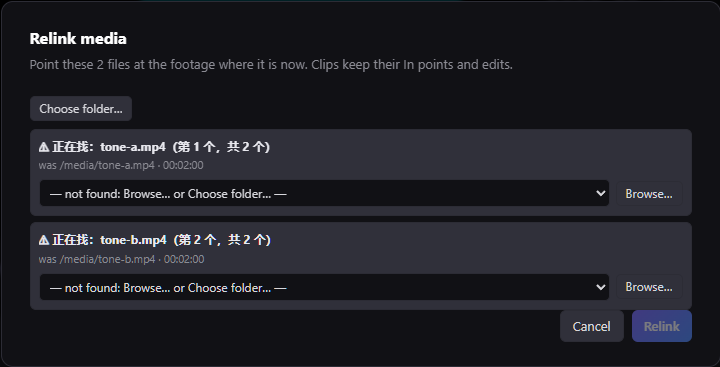
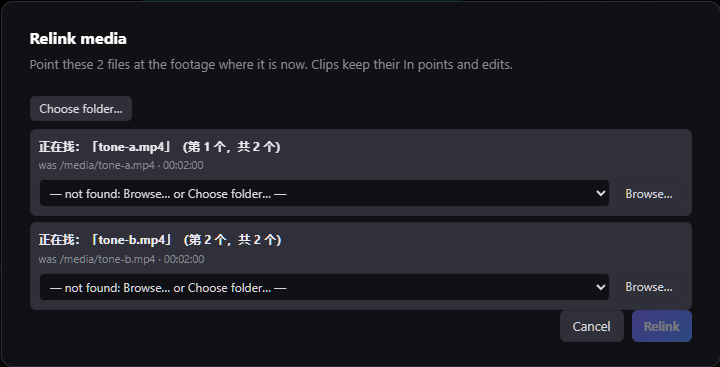
Missing files: JJ's exact dialog label; the hover names the file, never its path; one file's export reminder
Rea's check of #137: the card's hover had a 「⚠ 」 JJ's wording doesn't; it is
gone. Deja: the English hover showed the file's whole path, which can hold the
streamer's user name in a screenshot; both languages now name the file only.
The export reminder no longer reads 「有 1 个素材……这几段」: one file has its own
sentence (a draft in both languages, 草稿，待 JJ 定稿).

Deja: the Relink dialog's label is JJ's words exactly, with no 「⚠」 in front and
the count even when one file is left: 「正在找：「tone-c.mp4」（第 1 个，共 1 个）」 /
"Looking for “tone-c.mp4” (1 of 1)". The label without a count is gone.
Screenshots in docs/validation retaken.

Assisted-by: Cindy (https://cindy.app)

Changed region(s): [[0.0306, 0.6294, 0.3972, 0.6894], [0.0306, 0.3597, 0.3972, 0.4196]]

diff --git a/test/offline-media-zh.test.js b/test/offline-media-zh.test.js
@@ -18,7 +18,8 @@ test('JJ\'s Chinese, word for word', () => {
   a.equal(t('zh-CN', 'off-find-each'), '一个个找回来…');
   a.equal(t('zh-CN', 'off-badge'), '找不到');
   a.equal(t('zh-CN', 'off-badge-title'), '这个文件找不到了。右键选〔重新链接…〕，把它找回来。');
-  a.equal(tp('zh-CN', 'off-export', { n: 2 }, { n: 2 }), '有 2 个素材找不到了，导出时这几段会显示「找不到」的画面、没有声音。先把它们找回来再导出吧。');
+  a.equal(t('zh-CN', 'off-item-title', { file: 'tone-b.mp4' }), '这个文件找不到了。右键选〔重新链接…〕，把它找回来。', 'no ⚠ in front (Rea)');
+  a.equal(t('zh-CN', 'off-export', { n: 2 }), '有 2 个素材找不到了，导出时这几段会显示「找不到」的画面、没有声音。先把它们找回来再导出吧。');
   a.equal(t('zh-CN', 'off-find-first'), '先找回来…');
   a.equal(t('zh-CN', 'off-export-anyway'), '照样导出');
   a.equal(t('zh-CN', 'off-other-copy'), '用另一处的同一段录像…');
@@ -26,7 +27,7 @@ test('JJ\'s Chinese, word for word', () => {
   a.equal(t('zh-CN', 'off-replace-title'), '换成另一段录像，用到它的片段都会跟着换。');
   a.equal(t('zh-CN', 'off-none'), '素材都在，没有找不到的。');
   a.equal(t('zh-CN', 'off-finding-k', { file: 'tone-b.mp4', k: 2, n: 5 }), '正在找：「tone-b.mp4」（第 2 个，共 5 个）');
-  a.equal(t('zh-CN', 'off-finding', { file: 'tone-b.mp4' }), '正在找：「tone-b.mp4」');
+  a.equal(t('zh-CN', 'off-finding-k', { file: 'tone-c.mp4', k: 1, n: 1 }), '正在找：「tone-c.mp4」（第 1 个，共 1 个）', 'one left: the count too');
   a.equal(t('zh-CN', 'off-auto-found', { m: 2 }), '已经自动找回 2 个');
   a.equal(t('zh-CN', 'off-slate'), '找不到');
   a.equal(V.t('zh-CN', 'term.relink'), '重新链接…', '〔重新链接…〕 stays');
@@ -36,16 +37,20 @@ test('JJ\'s Chinese, word for word', () => {
 test('JJ\'s English, word for word (“ ” quotes, JJ\'s rule); the drafts as they are until JJ settles them', () => {
   a.equal(t('en', 'off-bar-one', { file: 'tone-b.mp4' }), 'Can\'t find “tone-b.mp4”. It may have been moved or deleted. Your edits are still there; find the file and you can carry on.');
   a.equal(t('en', 'off-find-it'), 'Find it…');
-  a.equal(tp('en', 'off-export', { n: 2 }, { n: 2 }), '2 media files can\'t be found. In the export those parts will show a “missing” picture with no sound. Find them first, then export.');
+  a.equal(t('en', 'off-export', { n: 2 }), '2 media files can\'t be found. In the export those parts will show a “missing” picture with no sound. Find them first, then export.');
   a.equal(t('en', 'off-other-copy'), 'Use the same recording from elsewhere…');
   a.equal(t('en', 'off-other-copy-title'), 'The same recording saved somewhere else (a backup on another drive, for example). Point to that one; your cuts stay the same.');
   a.equal(t('en', 'off-finding-k', { file: 'tone-b.mp4', k: 2, n: 5 }), 'Looking for “tone-b.mp4” (2 of 5)');
-  a.equal(t('en', 'off-finding', { file: 'tone-b.mp4' }), 'Looking for “tone-b.mp4”');
+  a.equal(t('en', 'off-finding-k', { file: 'tone-c.mp4', k: 1, n: 1 }), 'Looking for “tone-c.mp4” (1 of 1)');
   a.equal(t('en', 'off-replace-title'), 'Swap in a different recording; every clip that uses it changes too.');
   // drafts (草稿，待 JJ 定稿)
   a.equal(t('en', 'off-bar-many', { n: 3 }), '3 media files can\'t be found. They may have been moved or deleted. Your edits are still there; find the files and you can carry on.');
   a.equal(t('en', 'off-find-each'), 'Find them one by one…');
-  a.equal(tp('en', 'off-export', { n: 1 }, { n: 1 }), '1 media file can\'t be found. In the export that part will show a “missing” picture with no sound. Find it first, then export.');
+  // n = 1 (drafts, 草稿，待 JJ 定稿): never 「有 1 个素材……这几段」
+  a.equal(t('en', 'off-export-one'), '1 media file can\'t be found. In the export that part will show a “missing” picture with no sound. Find it first, then export.');
+  a.equal(t('zh-CN', 'off-export-one'), '有 1 个素材找不到了，导出时这一段会显示「找不到」的画面、没有声音。先把它找回来再导出吧。');
+  a.doesNotMatch(t('zh-CN', 'off-export-one'), /这几段|它们/);
+  a.equal(t('en', 'off-item-title', { file: 'tone-b.mp4' }), '⚠ Offline: tone-b.mp4 is missing — right-click → Relink…');
   a.equal(t('en', 'off-find-first'), 'Find them first…');
   a.equal(t('en', 'off-export-anyway'), 'Export anyway');
   a.equal(t('en', 'off-none'), 'All your media is here; nothing is missing.');
@@ -94,13 +99,14 @@ test('the corner toast is gone; the dialog marks each file it is finding, in ord
   a.doesNotMatch(check, /toast\(/, 'the strip says it now');
   const dlg = body('async function openRelinkDialog(', '\n}\n');
   a.match(dlg, /toast\(uiText\("own\.off-none"\)\)/);
-  a.match(dlg, /own\.off-finding-k", \{ file: m\.name, k, n: missing\.length \}/);
+  a.ok(dlg.includes('row.querySelector("b").textContent = k ? uiText("own.off-finding-k", { file: m.name, k, n: missing.length }) : m.name;'), 'no ⚠ in front, and the count even for one file');
+  a.doesNotMatch(dlg, /own\.off-finding"/);
   a.doesNotMatch(dlg, /Nothing is offline/);
 });
 
 test('the export reminder has its two buttons: 〔先找回来…〕 opens the dialog, 〔照样导出〕 starts the export', () => {
   const s = body('const offUsed = project.media.filter(', 'fillExportRangeSelect();');
-  a.match(s, /MontClipView\.tp\(mcView\.get\(\)\.language, "own\.off-export", \{ n: offUsed\.length \}, \{ n: offUsed\.length \}\)/);
+  a.ok(s.includes('offUsed.length === 1 ? uiText("own.off-export-one") : uiText("own.off-export", { n: offUsed.length })'));
   a.doesNotMatch(s, /will export as|Relink…/);
   const find = /\[data-off-find\]"\)\??\.addEventListener\("click", \(\) => \{ ([^}]*) \}\)/.exec(s), go = /\[data-off-go\]"\)\??\.addEventListener\("click", \(\) => \{?([^}\n]*)\}?\)/.exec(s);
   a.ok(find && go, 'both buttons are wired');
@@ -133,6 +139,18 @@ test('a missing file found under the same name is linked without asking; the dia
   a.ok(dlg.includes('const close = () => { overlay.remove(); scheduleOfflineCheck(0); sayAuto(); };'));
   a.ok(body('async function setMediaSource(', '\n}\n').includes('if (!quiet) toast(msg);'));
   // the real round (3 missing, 2 found by name: one question, then 「已经自动找回 2 个」) is in desktop/offline-media-smoke.cjs
+});
+
+test('the card\'s hover names the file, never its path (no folder separators, no user folder), in both languages', () => {
+  const item = body('const makeMediaItem = (m, depth) => {', '\n  const renderLevel = ');
+  a.ok(item.includes('uiText("own.off-item-title", { file: m.name })'));
+  a.doesNotMatch(item, /off-item-title", \{ path/);
+  for (const l of ['en', 'zh-CN']) {
+    a.doesNotMatch(V.text[l]['own.off-item-title'], /\{path\}/, l);
+    const s = t(l, 'off-item-title', { file: 'tone-b.mp4' });
+    a.doesNotMatch(s, /[\\/]|Users|home/i, l);
+  }
+  // the real card's whole hover is checked in desktop/offline-media-smoke.cjs
 });
 
 test('the export mix leaves a missing file out, even one whose sound was decoded before it went missing', () => {

diff --git a/ui-preferences.js b/ui-preferences.js
@@ -99,17 +99,18 @@
     "off-find-each": ["Find them one by one…", "一个个找回来…"],   // en: draft
     "off-badge": ["OFFLINE", "找不到"],
     "off-badge-title": ["The file is missing — right-click → Relink…", "这个文件找不到了。右键选〔重新链接…〕，把它找回来。"],
-    "off-item-title": ["⚠ Offline: {path} is missing — right-click → Relink…", "⚠ 这个文件找不到了。右键选〔重新链接…〕，把它找回来。"],
+    // the file's name only, never its path: streamers send screenshots, and a full path holds their user name (Deja, 2026-11-05)
+    "off-item-title": ["⚠ Offline: {file} is missing — right-click → Relink…", "这个文件找不到了。右键选〔重新链接…〕，把它找回来。"],
     "off-filter": ["⚠ Offline ({n})", "⚠ 找不到（{n}）"],
     "off-clip": ["⚠ Offline · ", "⚠ 找不到 · "],
     "off-export": ["{n} media files can't be found. In the export those parts will show a “missing” picture with no sound. Find them first, then export.", "有 {n} 个素材找不到了，导出时这几段会显示「找不到」的画面、没有声音。先把它们找回来再导出吧。"],
+    "off-export-one": ["1 media file can't be found. In the export that part will show a “missing” picture with no sound. Find it first, then export.", "有 1 个素材找不到了，导出时这一段会显示「找不到」的画面、没有声音。先把它找回来再导出吧。"],   // n = 1: draft (草稿，待 JJ 定稿), both languages
     "off-find-first": ["Find them first…", "先找回来…"],   // en: draft
     "off-export-anyway": ["Export anyway", "照样导出"],   // en: draft
     "off-other-copy": ["Use the same recording from elsewhere…", "用另一处的同一段录像…"],
     "off-other-copy-title": ["The same recording saved somewhere else (a backup on another drive, for example). Point to that one; your cuts stay the same.", "同一段录像存在别的地方（比如移动硬盘上的备份），指到那一份，剪辑点都不变。"],
     "off-replace-title": ["Swap in a different recording; every clip that uses it changes too.", "换成另一段录像，用到它的片段都会跟着换。"],
     "off-none": ["All your media is here; nothing is missing.", "素材都在，没有找不到的。"],   // en: draft
-    "off-finding": ["Looking for “{file}”", "正在找：「{file}」"],
     "off-finding-k": ["Looking for “{file}” ({k} of {n})", "正在找：「{file}」（第 {k} 个，共 {n} 个）"],
     "off-auto-found": ["Found {m} automatically.", "已经自动找回 {m} 个"],   // en: draft
     "off-slate": ["Media offline", "找不到"],
@@ -781,7 +782,6 @@
     "own.cap-added-replaced_one_other": "Added {n} caption on {track}, replacing the {m} that were there",
     "own.cap-added-replaced_other_one": "Added {n} captions on {track}, replacing the one that was there",
     "own.cap-added-replaced_other_other": "Added {n} captions on {track}, replacing the {m} that were there",
-    "own.off-export_one": "1 media file can't be found. In the export that part will show a “missing” picture with no sound. Find it first, then export.",   // draft
   });
   /** Keyed lookup: the language's string, else the English one, else "" (never the key). */
   /** A length as mm:ss, h:mm:ss from an hour; "" for none. The same as the Agent pane's durationText (agent-conversation.js, #26). */

diff --git a/app.js b/app.js
@@ -2499,7 +2499,7 @@ function renderBin() {
     else thumbEl.textContent = icon;
     const nameEl = item.querySelector(".bin-name");
     nameEl.textContent = m.name;
-    item.title = [m.name, offline ? uiText("own.off-item-title", { path: decodeURIComponent(String(m.src).split("?")[0]) }) : "", MediaLib.describe(m), m.tags && m.tags.length ? m.tags.map((t) => "#" + t).join(" ") : ""].filter(Boolean).join("\n");
+    item.title = [m.name, offline ? uiText("own.off-item-title", { file: m.name }) : "", MediaLib.describe(m), m.tags && m.tags.length ? m.tags.map((t) => "#" + t).join(" ") : ""].filter(Boolean).join("\n");
     item.addEventListener("dragstart", (e) => {
       runtime.binDragFolderId = null;
       e.dataTransfer.setData("text/fablecut-media", m.id);
@@ -3224,7 +3224,7 @@ async function openRelinkDialog(list) {
         </div>`;
       // missing files, in order (JJ, 2026-11-05): 「正在找：「{file}」（第 k 个，共 n 个）」
       const k = missing.indexOf(m) + 1;
-      row.querySelector("b").textContent = !k ? m.name : "⚠ " + (missing.length > 1 ? uiText("own.off-finding-k", { file: m.name, k, n: missing.length }) : uiText("own.off-finding", { file: m.name }));
+      row.querySelector("b").textContent = k ? uiText("own.off-finding-k", { file: m.name, k, n: missing.length }) : m.name;   // JJ's words exactly: no ⚠, the count even for one
       row.querySelector(".relink-was").textContent = "was " + decodeURIComponent(String(m.src).split("?")[0]) + (m.duration ? " · " + fmt(m.duration) : "") + (m.size ? " · " + MediaLib.fmtSize(m.size) : "");
       const sel = row.querySelector("select");
       const opt = (v, label) => { const o = document.createElement("option"); o.value = v; o.textContent = label; sel.appendChild(o); };
@@ -18782,7 +18782,7 @@ async function openExportSetup() {
   }
   if (offWarn) {
     offWarn.classList.toggle("hidden", !offUsed.length);
-    offWarn.innerHTML = offUsed.length ? `<span>${escapeHtml(MontClipView.tp(mcView.get().language, "own.off-export", { n: offUsed.length }, { n: offUsed.length }))}</span>
+    offWarn.innerHTML = offUsed.length ? `<span>${escapeHtml(offUsed.length === 1 ? uiText("own.off-export-one") : uiText("own.off-export", { n: offUsed.length }))}</span>
       <span class="export-offline-actions"><button type="button" class="btn tiny accent" data-off-find>${escapeHtml(uiText("own.off-find-first"))}</button><button type="button" class="btn tiny" data-off-go>${escapeHtml(uiText("own.off-export-anyway"))}</button></span>` : "";
     offWarn.querySelector("[data-off-find]")?.addEventListener("click", () => { closeExportSetup(); openRelinkDialog(offUsed); });
     offWarn.querySelector("[data-off-go]")?.addEventListener("click", () => startChosenExport());

diff --git a/docs/demo/app.js b/docs/demo/app.js
@@ -2499,7 +2499,7 @@ function renderBin() {
     else thumbEl.textContent = icon;
     const nameEl = item.querySelector(".bin-name");
     nameEl.textContent = m.name;
-    item.title = [m.name, offline ? uiText("own.off-item-title", { path: decodeURIComponent(String(m.src).split("?")[0]) }) : "", MediaLib.describe(m), m.tags && m.tags.length ? m.tags.map((t) => "#" + t).join(" ") : ""].filter(Boolean).join("\n");
+    item.title = [m.name, offline ? uiText("own.off-item-title", { file: m.name }) : "", MediaLib.describe(m), m.tags && m.tags.length ? m.tags.map((t) => "#" + t).join(" ") : ""].filter(Boolean).join("\n");
     item.addEventListener("dragstart", (e) => {
       runtime.binDragFolderId = null;
       e.dataTransfer.setData("text/fablecut-media", m.id);
@@ -3224,7 +3224,7 @@ async function openRelinkDialog(list) {
         </div>`;
       // missing files, in order (JJ, 2026-11-05): 「正在找：「{file}」（第 k 个，共 n 个）」
       const k = missing.indexOf(m) + 1;
-      row.querySelector("b").textContent = !k ? m.name : "⚠ " + (missing.length > 1 ? uiText("own.off-finding-k", { file: m.name, k, n: missing.length }) : uiText("own.off-finding", { file: m.name }));
+      row.querySelector("b").textContent = k ? uiText("own.off-finding-k", { file: m.name, k, n: missing.length }) : m.name;   // JJ's words exactly: no ⚠, the count even for one
       row.querySelector(".relink-was").textContent = "was " + decodeURIComponent(String(m.src).split("?")[0]) + (m.duration ? " · " + fmt(m.duration) : "") + (m.size ? " · " + MediaLib.fmtSize(m.size) : "");
       const sel = row.querySelector("select");
       const opt = (v, label) => { const o = document.createElement("option"); o.value = v; o.textContent = label; sel.appendChild(o); };
@@ -18782,7 +18782,7 @@ async function openExportSetup() {
   }
   if (offWarn) {
     offWarn.classList.toggle("hidden", !offUsed.length);
-    offWarn.innerHTML = offUsed.length ? `<span>${escapeHtml(MontClipView.tp(mcView.get().language, "own.off-export", { n: offUsed.length }, { n: offUsed.length }))}</span>
+    offWarn.innerHTML = offUsed.length ? `<span>${escapeHtml(offUsed.length === 1 ? uiText("own.off-export-one") : uiText("own.off-export", { n: offUsed.length }))}</span>
       <span class="export-offline-actions"><button type="button" class="btn tiny accent" data-off-find>${escapeHtml(uiText("own.off-find-first"))}</button><button type="button" class="btn tiny" data-off-go>${escapeHtml(uiText("own.off-export-anyway"))}</button></span>` : "";
     offWarn.querySelector("[data-off-find]")?.addEventListener("click", () => { closeExportSetup(); openRelinkDialog(offUsed); });
     offWarn.querySelector("[data-off-go]")?.addEventListener("click", () => startChosenExport());
